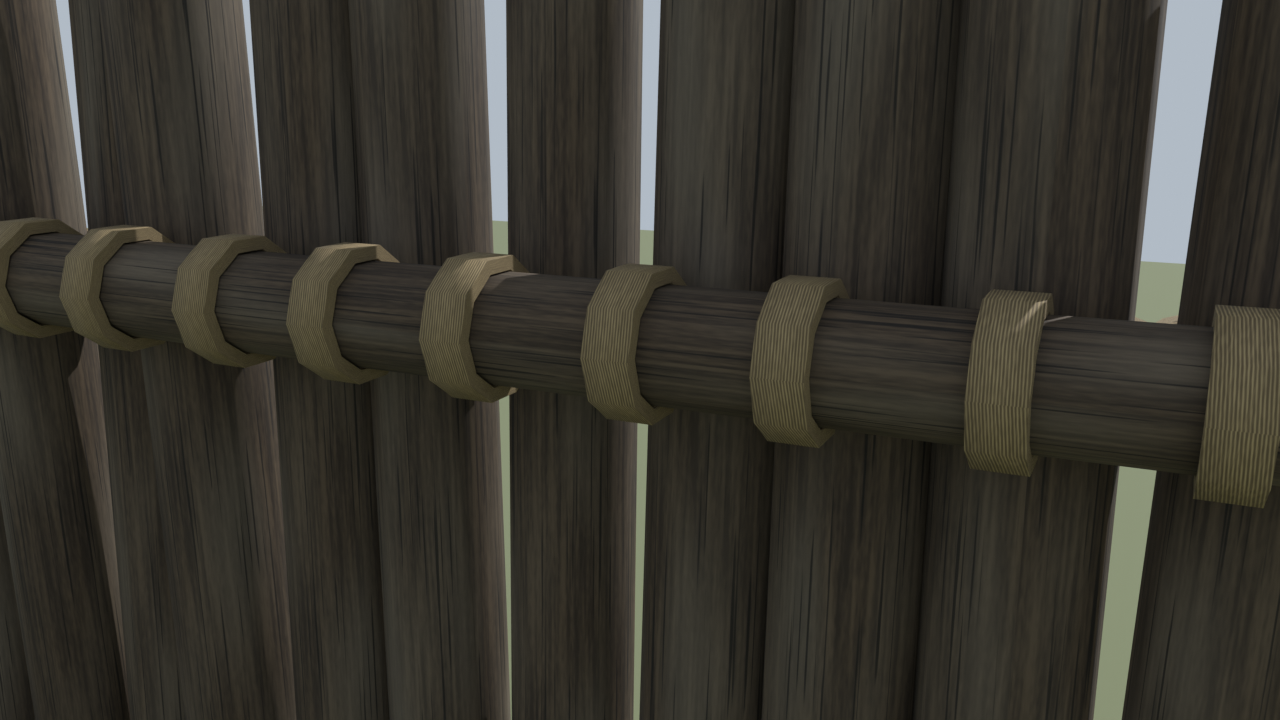
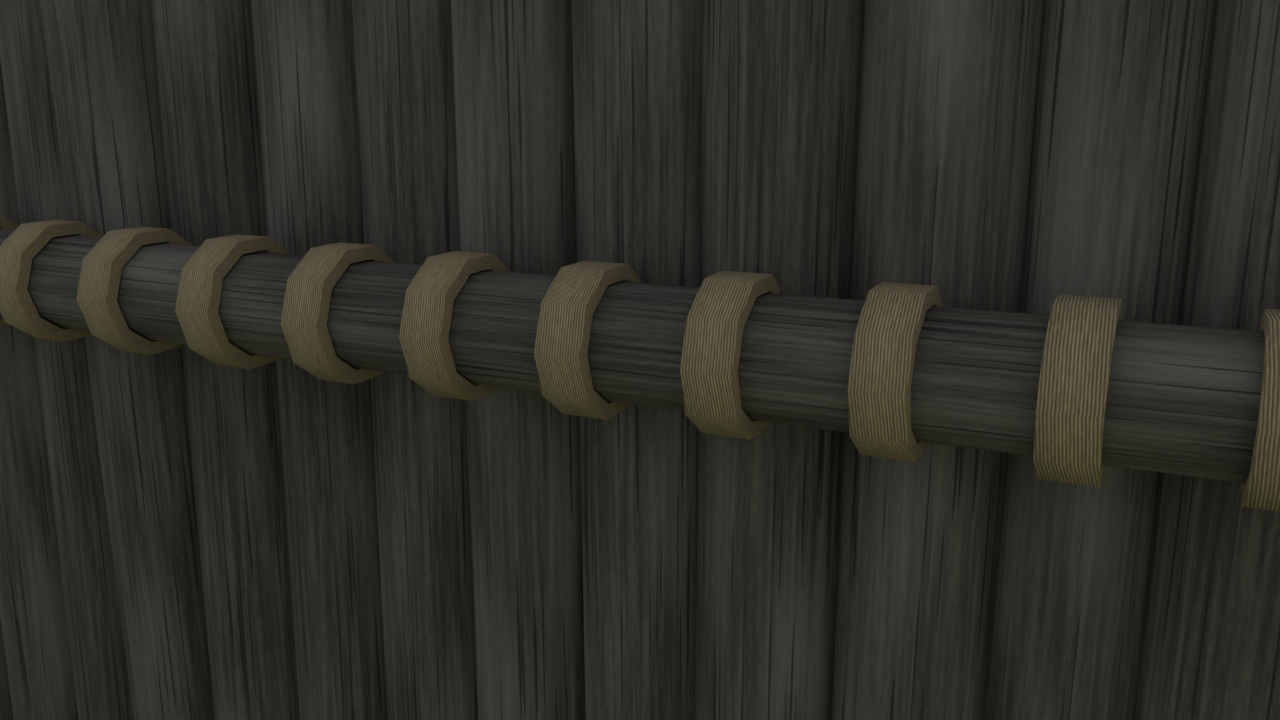
Palisade model: logs stand edge to edge without gaps
Posts are laid out sequentially with a small overlap, no sideways lean
and no top taper; wall length follows from the posts. Greyer weathered
bark closer to vanilla DayZ wood. Updated preview renders.

Claude-Session: https://claude.ai/code/session_01N1u23i5zJ5nTVE29ycymF1

diff --git a/DayZ-CustomPalisade/tools/model/cp_palisade_wall_blender.py b/DayZ-CustomPalisade/tools/model/cp_palisade_wall_blender.py
@@ -197,9 +197,9 @@ def bark(h, w, rng):
     cracks = _periodic_noise(h, w, 4, 140, rng)
     cracks = np.clip((cracks - 1.3) * 2.0, 0, 1)
 
-    dark = np.array([0.20, 0.16, 0.12])
-    mid = np.array([0.36, 0.30, 0.23])
-    grey = np.array([0.45, 0.42, 0.37])
+    dark = np.array([0.19, 0.17, 0.14])
+    mid = np.array([0.34, 0.31, 0.26])
+    grey = np.array([0.47, 0.45, 0.41])
 
     t = np.clip(0.5 + 0.22 * fibres + 0.10 * fine, 0, 1)
     col = _lerp(dark, mid, t)
@@ -253,14 +253,15 @@ def build_atlas(seed=7):
 
 # ---------------------------------------------------------------- settings
 
-WALL_LENGTH = 4.0
-POST_COUNT = 16
-POST_RADIUS = (0.112, 0.130)
+WALL_LENGTH = 4.0          # recalculated from the posts (they stand log to log)
+POST_COUNT = 18
+POST_RADIUS = (0.118, 0.134)
+POST_OVERLAP = 0.03        # neighbouring logs overlap -> no gaps, nothing to see through
 POST_HEIGHT = 2.70          # above ground, before the tip
 POST_HEIGHT_VAR = 0.12
 POST_TIP = 0.34
 POST_SINK = 0.35            # below ground
-POST_TILT_DEG = 1.2
+POST_LEAN_DEG = 1.0        # small lean in depth only (sideways lean would open gaps)
 
 RAIL_RADIUS = 0.085
 RAIL_Z = (0.75, 2.05)
@@ -286,24 +287,35 @@ ROPE_U0, ROPE_U1, ROPE_V0, ROPE_V1 = 0.76, 0.99, 0.01, 0.49
 # ---------------------------------------------------------------- layout
 
 def make_posts(seed=11):
+    """Posts stand log to log: each one touches (overlaps) the previous one."""
+    global WALL_LENGTH
     rng = random.Random(seed)
-    spacing = WALL_LENGTH / POST_COUNT
     posts = []
+    x = 0.0
     for i in range(POST_COUNT):
-        x = -WALL_LENGTH / 2 + spacing * (i + 0.5)
+        r = rng.uniform(*POST_RADIUS)
+        if posts:
+            x += posts[-1]["r"] + r - POST_OVERLAP
         posts.append({
             "index": i,
-            "x": x + rng.uniform(-0.01, 0.01),
-            "y": rng.uniform(-0.015, 0.015),
-            "r": rng.uniform(*POST_RADIUS),
+            "x": x,
+            "y": rng.uniform(-0.012, 0.012),
+            "r": r,
             "h": POST_HEIGHT + rng.uniform(-POST_HEIGHT_VAR, POST_HEIGHT_VAR),
             "tip": POST_TIP + rng.uniform(-0.05, 0.05),
-            "tilt_x": math.radians(rng.uniform(-POST_TILT_DEG, POST_TILT_DEG)),
-            "tilt_y": math.radians(rng.uniform(-POST_TILT_DEG, POST_TILT_DEG)),
+            "tilt_x": 0.0,
+            "tilt_y": math.radians(rng.uniform(-POST_LEAN_DEG, POST_LEAN_DEG)),
             "v_off": rng.uniform(0, 1),
             "rot": rng.uniform(0, 2 * math.pi),
             "base": i in (0, POST_COUNT - 1),
         })
+    # centre the wall on the origin
+    left = posts[0]["x"] - posts[0]["r"]
+    right = posts[-1]["x"] + posts[-1]["r"]
+    shift = (left + right) / 2
+    for p in posts:
+        p["x"] -= shift
+    WALL_LENGTH = right - left
     return posts
 
 
@@ -391,7 +403,7 @@ def add_post(mb, p, sides, sel, with_tip=True, closed=True, uv=True):
     z_rings = [-POST_SINK, p["h"] * 0.5, p["h"]]
     rings = []
     for zi, z in enumerate(z_rings):
-        rr = r * (1.04 if zi == 0 else (1.0 if zi == 1 else 0.97))
+        rr = r * (1.03 if zi == 0 else 1.0)
         ring = []
         for s in range(sides):
             a = p["rot"] + 2 * math.pi * s / sides
